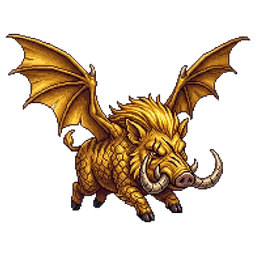
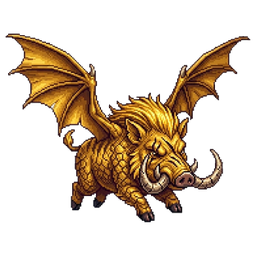
When Pigs Fly: a bigger wingbeat, synced from app fbf9f2b
The wings swing 30 degrees up and 48 down, up from 14 and 26. Frames gain
headroom (PAD 1.5) with BoarSpec rescaled, and the root wedge is filled with
a fan on the upstroke. TEN-GAMES.md records it.

diff --git a/arcade/v2/app/lib/arcade/passage/boar.dart b/arcade/v2/app/lib/arcade/passage/boar.dart
@@ -105,33 +105,34 @@ class BoarSpec {
   });
 
   static const all = {
-    // Frames are cropped close to the art, wings included, so these sizes are
-    // smaller than the old placeholders' (5.6 / 6.6 / 7.8), which carried a
-    // wide margin. Anchors are the middle of the body, measured on a grid.
+    // Frames hold the art at 1/1.5 of their side, the rest being room for the
+    // wings to beat into (tool/art/import_boars.py, PAD). Anchors are the
+    // middle of the body, measured on a grid at the old padding of 1.08 and
+    // rescaled with it; the boar is drawn the same size as before.
     BoarStage.piglet: BoarSpec(
       file: 'boar_piglet.png',
-      sizeInRadii: 4.2,
-      anchorU: 0.555,
-      anchorV: 0.62,
-      footV: 0.963,
+      sizeInRadii: 5.83,
+      anchorU: 0.54,
+      anchorV: 0.586,
+      footV: 0.833,
       name: 'Piglet',
       bodyHalfLength: 0.35,
     ),
     BoarStage.juvenile: BoarSpec(
       file: 'boar_juvenile.png',
-      sizeInRadii: 6.0,
-      anchorU: 0.57,
-      anchorV: 0.63,
-      footV: 0.891,
+      sizeInRadii: 8.33,
+      anchorU: 0.55,
+      anchorV: 0.594,
+      footV: 0.782,
       name: 'Juvenile',
       bodyHalfLength: 0.5,
     ),
     BoarStage.razorback: BoarSpec(
       file: 'boar_razorback.png',
-      sizeInRadii: 6.6,
-      anchorU: 0.57,
-      anchorV: 0.635,
-      footV: 0.856,
+      sizeInRadii: 9.17,
+      anchorU: 0.55,
+      anchorV: 0.597,
+      footV: 0.756,
       name: 'Razorback',
       bodyRadius: 1.0,
       bodyHalfLength: 0.75,
@@ -150,7 +151,8 @@ class BoarPortrait extends StatelessWidget {
   /// The part of a frame the boar actually occupies when standing, as
   /// fractions: frames carry headroom for raised wings, and drawn whole the
   /// standing boar filled barely half a 58 px portrait on device.
-  static const _crop = Rect.fromLTWH(0.02, 0.02, 0.96, 0.96);
+  /// The art fills the middle 1/1.5 of each frame (import_boars.py, PAD).
+  static const _crop = Rect.fromLTWH(0.155, 0.155, 0.69, 0.69);
 
   @override
   Widget build(BuildContext context) {

diff --git a/arcade/v2/app/tool/art/import_boars.py b/arcade/v2/app/tool/art/import_boars.py
@@ -37,8 +37,19 @@ from PIL import Image, ImageEnhance
 HERE = os.path.dirname(os.path.abspath(__file__))
 OUT = os.path.normpath(os.path.join(HERE, "..", "..", "assets", "images"))
 STAGES = ["piglet", "juvenile", "razorback"]
-FRAME = 320  # px per square frame in the sheet
+FRAME = 448  # px per square frame in the sheet
+
+# The frame's side as a multiple of the art's larger dimension. The art sits
+# in the middle; the rest is headroom for the wings to swing into. At the
+# first, gentle beat 1.08 was enough; the bigger beat needs this. Changing it
+# changes where the boar sits in the frame: BoarSpec in boar.dart has to be
+# rescaled with it (sizes up by the ratio, anchors toward 0.5 by it).
+PAD = 1.5
 FRAMES = 8
+
+# WINGS was measured on frames padded by this much; split_wings maps it onto
+# the current PAD, so the padding can change without re-measuring.
+WINGS_PAD = 1.08
 
 # Each wing: the region to lift off (a polygon in fractions of the frame,
 # drawn above the line where the wing meets the back, so the root stays on
@@ -77,7 +88,11 @@ WINGS = {
 # Wing angle per frame, degrees: positive lowers the wing tip. Frames 0-3 are
 # the beat (up, level, down, folding back); 4 hurt; 5 dash; 6 landing; 7 at
 # rest.
-WING_ANGLES = [-14, 0, 26, 8, 6, 14, -16, 0]
+WING_ANGLES = [-30, 0, 48, 14, 8, 18, -32, 0]
+
+# How far from the shoulder (fraction of the frame) the fan that fills the
+# root of a turned wing reaches. See posed().
+ROOT_FAN = 0.10
 
 
 def main_component(img, keep=0.02, scale=4):
@@ -127,9 +142,14 @@ def split_wings(frame, stage):
     body = frame.copy()
     wings = []
     arr = np.array(frame)
+    k = WINGS_PAD / PAD
+
+    def at(x, y):
+        return ((0.5 + (x - 0.5) * k) * FRAME, (0.5 + (y - 0.5) * k) * FRAME)
+
     for w in WINGS.get(stage, []):
         m = Image.new("L", frame.size, 0)
-        ImageDraw.Draw(m).polygon([(x * FRAME, y * FRAME) for x, y in w["poly"]], fill=255)
+        ImageDraw.Draw(m).polygon([at(x, y) for x, y in w["poly"]], fill=255)
         mask = np.array(m) > 0
         if w.get("key") == "white":
             # Everything in the region that is not the warm brown and gold of
@@ -147,7 +167,7 @@ def split_wings(frame, stage):
         b[mask, 3] = 0
         body = Image.fromarray(b, "RGBA")
         ys, xs = np.nonzero(mask)
-        px, py = w["pivot"][0] * FRAME, w["pivot"][1] * FRAME
+        px, py = at(*w["pivot"])
         # PIL turns counter-clockwise for a positive angle: that lowers the
         # tip of a wing reaching up and back (to the left), and raises one
         # reaching up and forward, so the sign follows the tip's side.
@@ -157,16 +177,29 @@ def split_wings(frame, stage):
 
 
 def posed(body, wings, angle):
-    """The body with its wings turned by [angle]. Each wing is laid down
-    twice: first as it was drawn (at rest), then turned. On the upstroke the
-    turned wing lifts clear of the wing's own lower edge, and without the
-    rest copy underneath, that edge — which lay across the back and the
-    tail — left a sliver of sky through the body. The rest copy fills it
-    with the wing's own feathers, the way a real wing's far side would."""
+    """The body with its wings turned by [angle].
+
+    Turning a wing about its shoulder opens a wedge at the root between
+    where it was drawn and where it now is, and on the upstroke that wedge
+    showed sky through the back. It is filled with a fan: the same wing at
+    the in-between angles, kept only close to the shoulder (fading out by
+    ROOT_FAN), laid under the turned wing. Near the pivot a wing barely
+    moves, so the fan is feathers, not a ghost. (A copy of the whole resting
+    wing did the same job at the first, gentle beat; at the bigger one it
+    showed as a second wing.)"""
     out = Image.new("RGBA", body.size, (0, 0, 0, 0))
+    yy, xx = np.mgrid[0:body.size[1], 0:body.size[0]]
     for layer, pivot, sign in wings:
-        if angle < 0:
-            out.alpha_composite(layer)
+        if angle < 0:  # upstroke only: on the downstroke the wedge is sky above the back
+            d = np.hypot(xx - pivot[0], yy - pivot[1]) / (ROOT_FAN * FRAME)
+            fade = np.clip((1.0 - d) / 0.35, 0.0, 1.0)
+            steps = max(2, int(abs(angle) / 3))
+            for i in range(steps):
+                a = angle * i / steps
+                t = layer.rotate(sign * a, resample=Image.BICUBIC, center=pivot)
+                arr = np.array(t)
+                arr[:, :, 3] = (arr[:, :, 3] * fade).astype(np.uint8)
+                out.alpha_composite(Image.fromarray(arr, "RGBA"))
         out.alpha_composite(layer.rotate(sign * angle, resample=Image.BICUBIC, center=pivot))
     out.alpha_composite(body)
     return out
@@ -175,7 +208,7 @@ def posed(body, wings, angle):
 def to_frame(img):
     """Crop to the art and centre it in a square with 4% margin."""
     img = img.crop(img.getchannel("A").getbbox())
-    side = int(max(img.size) * 1.08)
+    side = int(max(img.size) * PAD)
     sq = Image.new("RGBA", (side, side), (0, 0, 0, 0))
     sq.paste(img, ((side - img.width) // 2, (side - img.height) // 2), img)
     return sq.resize((FRAME, FRAME), Image.LANCZOS)

diff --git a/arcade/TEN-GAMES.md b/arcade/TEN-GAMES.md
@@ -618,6 +618,13 @@ The originals are kept in `tool/art/source/` so the sheets can be rebuilt.
 - **The tap:** each tap jumps the cycle to wings-up, so the next frames beat
   them down as the boar rises. This replaces the squash-and-stretch the
   renderer used to fake a wingbeat.
+- **Bigger beat** (2026-09-28, owner's request): the wings swing 30° up and
+  48° down from the drawn pose, up from 14° and 26°. Frames gained headroom
+  for it: the art now fills 1/1.5 of the frame instead of 1/1.08, and
+  BoarSpec was rescaled so the boar draws the same size. At this size, the
+  resting-wing underlay showed as a ghost second wing. The root wedge is now
+  filled with a fan of the wing at in-between angles, kept near the shoulder
+  and used on the upstroke only.
 
 **The art is sampled smoothly now.** It is detailed rather than on a strict
 pixel grid, and nearest-neighbour shimmered as it scaled and pitched.
